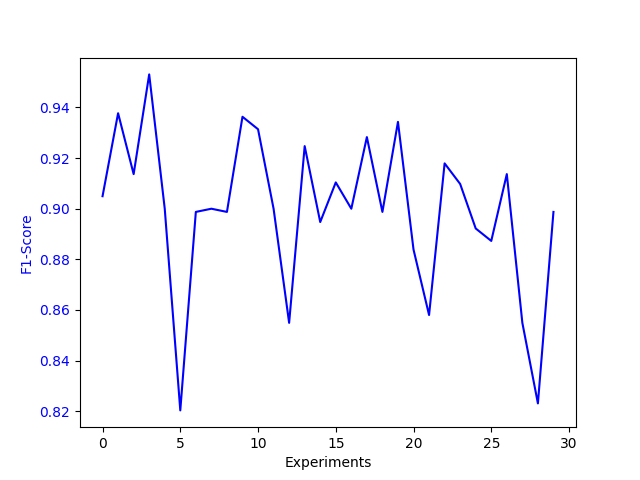
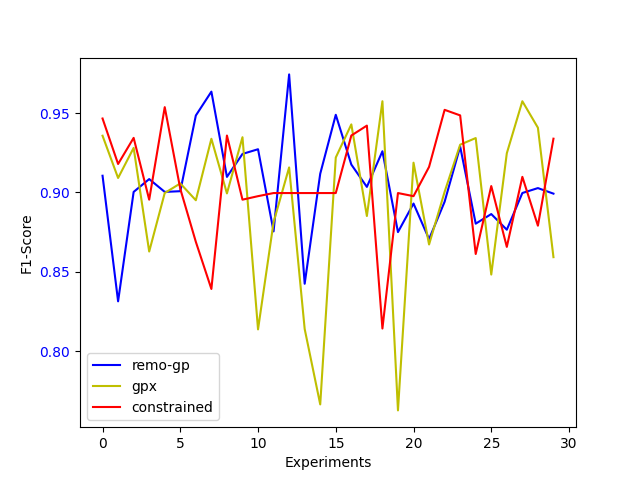
Update results

diff --git a/run.py b/run.py
@@ -221,9 +221,8 @@ def generateReport(n_experiments, best_pareto=None):
     fit_max = logbook.chapters["fscore_stats"].select("max")
 
     import matplotlib.pyplot as plt
-    fit_max = []
-    fit_max_gpx = []
-    fit_max_const = []
+    fit_max_gpx = [0.8635875402792695, 0.9001029866117405, 0.8635875402792695, 0.8013300083125521, 0.8320855614973262, 0.8400392541707556, 0.8626198083067093, 0.8320855614973262, 0.9134808853118711, 0.8320855614973262, 0.8320855614973262, 0.8253119429590018, 0.8583690987124464, 0.8181011535048802, 0.8120603015075376, 0.7885714285714287, 0.7596717467760844, 0.7989179440937783, 0.8839662447257384, 0.8030467899891185, 0.7735644637053087, 0.8013300083125521, 0.760655737704918, 0.8013300083125521, 0.8367129135538954, 0.7860508953817154, 0.8635875402792695, 0.8413793103448276, 0.7804444444444445, 0.8635875402792695]
+    fit_max_const = [0.856868395773295, 0.8580576307363929, 0.7688734030197446, 0.7688734030197446, 0.7608695652173915, 0.8094262295081968, 0.8590604026845639, 0.779107725788901, 0.8053024026512013, 0.9213483146067416, 0.8405017921146953, 0.7688734030197446, 0.8601921024546425, 0.7688734030197446, 0.7688734030197446, 0.9475890985324948, 0.8664495114006515, 0.8153681963713981, 0.7688734030197446, 0.8137472283813747, 0.8053024026512013, 0.8370370370370371, 0.784, 0.8342361863488624, 0.8545454545454545, 0.8129370629370629, 0.775609756097561, 0.9243856332703213, 0.8053024026512013, 0.7874493927125505]
     fig, ax1 = plt.subplots()
     line1, = ax1.plot(range(0, n_experiments), fit_max, "b-", label="remo-gp")
     line2, = ax1.plot(range(0, n_experiments), fit_max_gpx, "y-", label="gpx")
@@ -241,10 +240,11 @@ def generateReport(n_experiments, best_pareto=None):
         'gp_fscore_avg': sum(gp_fscore_sum) / n_experiments,
         'gp_fscore_std': statistics.pstdev(gp_fscore_sum),
         'total_pareto': best_pareto.items.__len__(),
+        'fit_max': fit_max
     }]
     df_logbook = pd.DataFrame(results_log)
     df_logbook.to_csv("pareto_results/" + dataset_name + "/results.csv")
-    generateParetoCharts(accumulatedPareto)
+    # generateParetoCharts(accumulatedPareto)
     # generateTree(best_pareto)
 
 
@@ -444,8 +444,8 @@ if __name__ == '__main__':
     # dataset_name = 'wine'
     # main(dataset_name)
 
-    dataset_name = 'ionosphere'
-    main(dataset_name)
+    # dataset_name = 'ionosphere'
+    # main(dataset_name)
 
     # dataset_name = 'breast_cancer'
     # main(dataset_name)
@@ -456,8 +456,8 @@ if __name__ == '__main__':
     # dataset_name = 'digits3_9'
     # main(dataset_name)
 
-    # dataset_name = 'banknotes'
-    # main(dataset_name)
+    dataset_name = 'banknotes'
+    main(dataset_name)
 
     # import matplotlib.pyplot as plt
     # fig1, ax1 = plt.subplots()
@@ -501,23 +501,6 @@ if __name__ == '__main__':
     # ax1.grid()
     #
     # fig1.savefig("pareto_results/" + dataset_name + "/breast_compare_ari.png")
-
-    import matplotlib.pyplot as plt
-
-    fit_max = []
-    fit_max_gpx = [0.8156424581005587, 0.8105263157894738, 0.8019801980198019, 0.7848837209302326, 0.8106796116504853, 0.7933884297520661, 0.8167539267015707, 0.825986078886311, 0.8200589970501475, 0.825986078886311, 0.7616580310880828, 0.8200589970501475, 0.825986078886311, 0.7861271676300579, 0.7878787878787878, 0.825986078886311, 0.8242074927953891, 0.8157099697885196, 0.825986078886311, 0.8423772609819121, 0.7772925764192139, 0.8048048048048047, 0.8150289017341041, 0.8091603053435115, 0.814404432132964, 0.7760416666666666, 0.8159203980099502, 0.8579088471849866, 0.7789473684210527, 0.8010075566750628]
-    fit_max_const = [0.8118811881188118, 0.8721461187214611, 0.8781725888324873, 0.882494004796163, 0.8192219679633868, 0.8357487922705314, 0.8164251207729468, 0.8154269972451792, 0.8721461187214611, 0.8192219679633868, 0.8173913043478261, 0.8110403397027601, 0.8284313725490196, 0.8444444444444444, 0.8466819221967963, 0.8586666666666666, 0.8431876606683805, 0.8329297820823244, 0.8213457076566126, 0.8110403397027601, 0.8201058201058201, 0.8390243902439023, 0.8146341463414634, 0.8200000000000001, 0.8058968058968059, 0.8329297820823244, 0.8277404921700224, 0.8721461187214611, 0.8110403397027601, 0.8021978021978023]
-    fig, ax1 = plt.subplots()
-    line1, = ax1.plot(range(0, 30), fit_max, "b-", label="remo-gp")
-    line2, = ax1.plot(range(0, 30), fit_max_gpx, "y-", label="gpx")
-    line3, = ax1.plot(range(0, 30), fit_max_const, "r-", label="constrained")
-    ax1.set_xlabel("Experiments")
-    ax1.set_ylabel("F1-Score")
-    ax1.legend(handles=[line1, line2, line3])
-    for tl in ax1.get_yticklabels():
-        tl.set_color("b")
-    plt.savefig("pareto_results/" + dataset_name + "/fscore.png")
-
     time_end = process_time()
 
     print(time_end - time_start)
